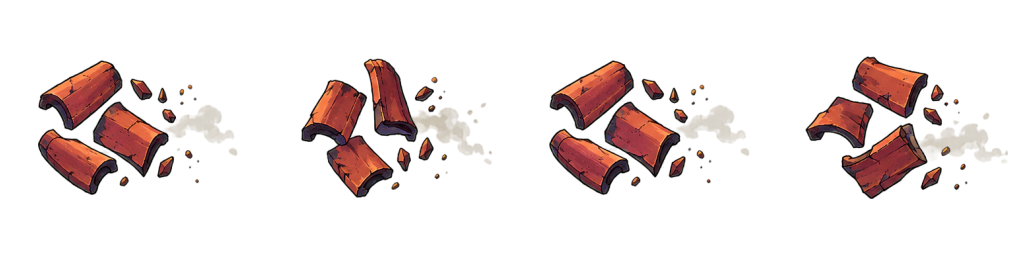
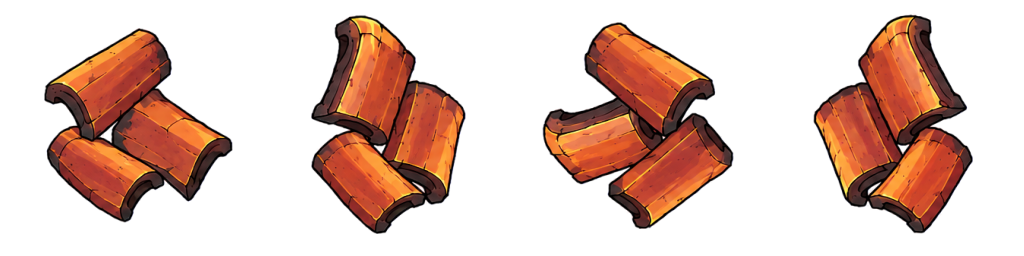
Stage 3: roof tiles v2 (ChatGPT re-roll) for a real anticlockwise tumble
- art-in/stage3fx/fx-tiles-v2.src.png (verbatim): one row of four 3-tile clusters on textured magenta, no dust.
- tools/stage3/process_fx.py: key_local() keys the non-flat backdrop against a smooth local key field, alpha only in a
  3 px band around the paint, every visible pixel despilled to min(R,B) <= G (zero pink). Tiles centred on their alpha
  centroid, scale 0.76, painted order 1,2,3,4. Collage A row 1 (v1 tiles) no longer read; the other three sheets are
  byte-identical. Reruns stay byte-identical.
- prop-rooftiles.webp rebuilt at 1024x256, 4 frames. ART_STATUS: new sha256 + source, approved by Jason F via Grok Bot
  2026-10-08, v1 recorded under supersedes. Prompt JSON: tries 2, prompts[2]. FX-ART.md: order analysis.
- tests/stage3-tiles-v2.test.mjs: source hashes for all four sheets, v2 source/size/lossless, prompt record, order.

diff --git a/tools/stage3/process_fx.py b/tools/stage3/process_fx.py
@@ -1,11 +1,13 @@
 #!/usr/bin/env python3
-"""Build the painted Stage 3 prop/FX sheets from the two ChatGPT collages (approved by Jason F via Grok Bot, 2026-10-08).
+"""Build the painted Stage 3 prop/FX sheets from three ChatGPT images (approved by Jason F via Grok Bot, 2026-10-08).
 
 Sources, kept verbatim:
-  art-in/stage3fx/fx-collage-a.src.png  1536x1024, flat magenta (~#FC03FB): row 1 = 4 roof-tile clusters,
-                                        row 2 = 4 frames of the far Fade running right with the blue-ribbon bundle
+  art-in/stage3fx/fx-collage-a.src.png  1536x1024, flat magenta (~#FC03FB): row 1 = 4 roof-tile clusters (v1, superseded
+                                        by fx-tiles-v2 and no longer read), row 2 = 4 frames of the far Fade running right
   art-in/stage3fx/fx-collage-b.src.png  1536x1024, flat green (~#04F902): row 1 = 4 shadow pools,
                                         rows 2-3 = the 6 shadow-burst frames (3 + 3, reading order)
+  art-in/stage3fx/fx-tiles-v2.src.png   1536x1024, textured/graded magenta: one row of 4 three-tile clusters turning
+                                        a rough quarter turn anticlockwise per slot (the tile re-roll; no dust)
 
 Outputs (same files, keys, sizes and 256x256 frame grid as the placeholder cards they replace):
   assets/stage3/props/prop-rooftiles.webp   1024x256  4 frames
@@ -19,17 +21,19 @@ Steps (deterministic: running it twice writes byte-identical files):
      region connected to the flat key (s > 200); a 3 px band around it catches anti-aliased outlines. Inside that
      soft area alpha = (sK - s) / sK and the colour is unmixed from the median key colour, then fully despilled
      (min(R,B) pulled down to G), so the pale-pink dust trails become see-through warm grey with no pink left.
-     Enclosed purple-ish paint (tile undersides) stays opaque, its excess capped at CAP.
+     Enclosed purple-ish paint (cloak shading) stays opaque, its excess capped at CAP.
      B (green): the same with g = G - max(R,B), and G <= max(R,B) everywhere (the smoke palette has no green).
+     tiles v2: key_local(): the backdrop is not flat, so the key colour is a smooth local field; alpha is solved only in
+     a 3 px band around the paint (no see-through art), and every visible pixel is despilled to min(R,B) <= G.
   2. frames: rows are the horizontal bands of painted pixels; within a row every blob goes to the slot (row width /
      frames) holding its centroid, so loose wisps and shards stay with their frame. Specks under 4 px are dropped.
   3. one scale per effect (premultiplied INTER_AREA), never per frame.
   4. registration in the 256x256 cell (the game draws every sheet with origin 0.5, 0.5):
-       tiles: the opaque tile mass centred at (TILE_X, 128); dust trails right (the art travels left, flipX turns it)
+       tiles: alpha centroid on the cell centre (128, 128), the pivot a spin turns about; order TILE_ORDER
        pool:  ellipse centred at (128, 128), the foot spot (wisps rise above it)
        burst: alpha centroid at (128, 128), 100 px above the actor's feet in game
        fade:  torso x locked at FADE_X; feet on FADE_FOOT for the grounded frames, the painted leap height kept
-  5. checks: nothing in the outer 1 px of a cell; no pink (A) / green (B) pixel left; then lossless WebP (lossy 4:2:0
+  5. checks: nothing in the outer 1 px of a cell; no pink (A, tiles: none at all) / green (B) pixel left; then lossless WebP (lossy 4:2:0
      chroma would smear pink/green back into the edges).
 
 Usage: python3 tools/stage3/process_fx.py [--debug DIR]   (needs numpy, opencv-python, Pillow, scipy)
@@ -43,16 +47,20 @@ from scipy import ndimage as ndi
 ROOT = os.path.abspath(os.path.join(os.path.dirname(__file__), '..', '..'))
 SRC_A = os.path.join(ROOT, 'art-in', 'stage3fx', 'fx-collage-a.src.png')
 SRC_B = os.path.join(ROOT, 'art-in', 'stage3fx', 'fx-collage-b.src.png')
+SRC_T = os.path.join(ROOT, 'art-in', 'stage3fx', 'fx-tiles-v2.src.png')
 OUT = os.path.join(ROOT, 'assets', 'stage3', 'props')
 CONTACT = os.path.join(ROOT, 'docs', 'stage3', 'shots', 'contact-stage3-fx.jpg')
 F = 256
 CAP = 12.0                  # opaque paint keeps at most this much magenta excess (tile undersides read cool grey-violet)
-TILE_K, POOL_K, BURST_K, FADE_K = 0.66, 0.72, 0.54, 0.45
-TILE_X = 118                # opaque tile mass centre; the dust trail uses the room on the right
+TILE_K, POOL_K, BURST_K, FADE_K = 0.76, 0.72, 0.54, 0.45
 FADE_X, FADE_FOOT = 150, 196
-# frame order out of the collage slots. Tile slot 4 repeats slot 1 almost exactly, so it goes between 2 and 3:
-# 1,2,4,3 alternates the near-twin with the other two poses instead of holding one pose for two frames (a hitch).
-TILE_ORDER = [0, 1, 3, 2]
+# tile frame order out of the v2 row's slots (left to right = 1..4), chosen for the smoothest anticlockwise tumble
+# at the game's 8 fps (the art travels left; flipX turns it clockwise for tiles flying right). The painted order
+# 1,2,3,4 is the only cycle that turns anticlockwise all the way round (best-match turns about +122/+84/+116/+38 deg)
+# and also nets anticlockwise on the nearest-match reading the eye uses at speed; every other order nets clockwise
+# or has a ~180 deg step with no direction. See docs/stage3/FX-ART.md.
+TILE_ORDER = [0, 1, 2, 3]
+MIN_BLOB = 50               # tiles v2: anything smaller is backdrop texture, not paint
 
 
 def load(p):
@@ -95,6 +103,50 @@ def key(a, green):
         alpha[small] = 0
     rgb[alpha == 0] = 0
     return rgb, alpha
+
+
+def key_local(a):
+    """Magenta key over a textured, slightly graded backdrop (tiles v2). The key colour is a smooth field: the
+    local average of clean backdrop pixels (normalised Gaussian, sigma 12 px, widened where the paint
+    leaves no backdrop nearby). The art has no see-through parts, so alpha is only solved in a 3 px band around the
+    paint; the rest of the backdrop is fully clear whatever its texture. Colour is unmixed from the local key, then
+    despilled with no cap: no visible pixel keeps min(R,B) above G."""
+    R, G, B = a[..., 0], a[..., 1], a[..., 2]
+    s = np.minimum(R, B) - G
+    cand = (s > 30) & (a.mean(-1) > 140)
+    lbl, n = ndi.label(cand, structure=np.ones((3, 3)))
+    hit = np.unique(lbl[(s > 180) & cand])
+    bg = np.isin(lbl, hit[hit > 0])
+    core = ndi.binary_erosion(bg, np.ones((3, 3)), iterations=2) & (s > 150)
+
+    def field(sig):
+        w = cv2.GaussianBlur(core.astype(np.float32), (0, 0), sig)
+        k = np.dstack([cv2.GaussianBlur(np.where(core, a[..., c], 0).astype(np.float32), (0, 0), sig) for c in range(3)])
+        return k / np.maximum(w, 1e-4)[..., None], w
+    K, w = field(12)
+    for sig in (40, 120):
+        miss = w < 0.02
+        if not miss.any(): break
+        K2, w2 = field(sig)
+        K[miss], w = K2[miss], np.where(miss, w2, w)
+    sK = np.minimum(K[..., 0], K[..., 2]) - K[..., 1]
+    near = ndi.distance_transform_edt(bg) <= 3
+    soft = (bg & near) | (ndi.binary_dilation(bg, np.ones((3, 3)), iterations=3) & ~bg & (s > 8))
+    alpha = np.ones(s.shape, np.float32)
+    alpha[bg] = 0
+    alpha[soft] = np.clip((sK[soft] - s[soft]) / sK[soft], 0, 1)
+    alpha = np.where(alpha < 0.06, 0, np.where(alpha > 0.97, 1, alpha)).astype(np.float32)
+    am = np.maximum(alpha, 1e-3)[..., None]
+    Fc = np.clip((a - (1 - alpha)[..., None] * K) / am, 0, 255)
+    Fc = np.where(soft[..., None], Fc, a)
+    ex = np.maximum(np.minimum(Fc[..., 0], Fc[..., 2]) - Fc[..., 1], 0)
+    Fc[..., 0] -= ex; Fc[..., 2] -= ex
+    lb, m = ndi.label(alpha > 0, structure=np.ones((3, 3)))
+    if m:
+        sz = ndi.sum(np.ones_like(lb), lb, range(1, m + 1))
+        alpha[np.isin(lb, 1 + np.nonzero(sz < MIN_BLOB)[0])] = 0
+    Fc[alpha == 0] = 0
+    return Fc, alpha
 
 
 def bands(alpha, min_h=40):
@@ -150,11 +202,12 @@ def bbox(m):
 
 
 def tiles(frames):
+    # a spin turns about the centre of mass, so every frame puts its alpha centroid on the cell centre
     out = []
     for pm in frames:
         s = scale(pm, TILE_K)
-        x0, y0, x1, y1 = bbox(s[..., 3] > 0.9)
-        out.append(place(s, TILE_X - (x0 + x1) / 2, 128 - (y0 + y1) / 2))
+        cy, cx = ndi.center_of_mass(s[..., 3])
+        out.append(place(s, 128 - cx, 128 - cy))
     return [out[i] for i in TILE_ORDER]
 
 
@@ -199,7 +252,7 @@ def fades(frames):
 FADE_BOTTOMS = []          # filled by main(): where each far-Fade frame's lowest pixel sat in the collage
 
 
-def to_u8(cell, green):
+def to_u8(cell, green, cap=CAP):
     a = np.clip(cell[..., 3], 0, 1)
     rgb = np.where(a[..., None] > 0, cell[..., :3] / np.maximum(a, 1e-6)[..., None], 0)
     # resampling can mix a red and a blue-ish neighbour into a purple one: despill once more after scaling
@@ -207,7 +260,7 @@ def to_u8(cell, green):
     if green:
         G = np.minimum(G, np.maximum(R, B))
     else:
-        ex = np.maximum(np.minimum(R, B) - G - np.where(a >= 0.97, CAP, 0.0), 0)
+        ex = np.maximum(np.minimum(R, B) - G - np.where(a >= 0.97, cap, 0.0), 0)
         R, B = R - ex, B - ex
     rgb = np.stack([R, G, B], -1)
     a8 = np.round(a * 255).astype(np.uint8)
@@ -215,11 +268,11 @@ def to_u8(cell, green):
     return np.dstack([rgb8, a8])
 
 
-def strip(cells, green):
-    return np.concatenate([to_u8(c, green) for c in cells], 1)
+def strip(cells, green, cap=CAP):
+    return np.concatenate([to_u8(c, green, cap) for c in cells], 1)
 
 
-def check(name, s, green):
+def check(name, s, green, cap=CAP):
     a = s[..., 3].astype(int)
     for i in range(s.shape[1] // F):
         c = a[:, i * F:(i + 1) * F]
@@ -227,7 +280,7 @@ def check(name, s, green):
     R, G, B = (s[..., j].astype(int) for j in range(3))
     vis = a > 8
     # pink/magenta = R and B both above G. Opaque paint may keep CAP (cool shading); see-through paint keeps none.
-    bad = vis & ((G - np.maximum(R, B) > 2) if green else (np.minimum(R, B) - G > np.where(a >= 247, CAP + 2, 2)))
+    bad = vis & ((G - np.maximum(R, B) > 2) if green else (np.minimum(R, B) - G > np.where(a >= 247, cap + 2, 2)))
     assert not bad.any(), f'{name}: {int(bad.sum())} {"green" if green else "pink"} pixels left'
     return int(vis.sum())
 
@@ -272,7 +325,11 @@ def main():
     rgbB, alB = key(load(SRC_B), True)
     bA, bB = bands(alA), bands(alB)
     assert len(bA) == 2 and len(bB) == 3, (bA, bB)
-    t = slots(rgbA, alA, bA[0], 4)
+    # collage A's top row (the v1 tiles) is superseded by fx-tiles-v2 and no longer read
+    rgbT, alT = key_local(load(SRC_T))
+    bT = bands(alT)
+    assert len(bT) == 1, bT
+    t = slots(rgbT, alT, bT[0], 4)
     f = slots(rgbA, alA, bA[1], 4)
     p = slots(rgbB, alB, bB[0], 4)
     b = slots(rgbB, alB, bB[1], 3) + slots(rgbB, alB, bB[2], 3)
@@ -280,21 +337,21 @@ def main():
     y0, A, W = bA[1][0], alA[bA[1][0]:bA[1][1]], alA.shape[1]
     FADE_BOTTOMS[:] = [y0 + np.nonzero(A[:, int(k * W / 4):int((k + 1) * W / 4)].any(1))[0].max() + 1 for k in range(4)]
     sheets = [
-        ('prop-rooftiles', strip(tiles(t), False), False),
-        ('fx-shadowpool', strip(pools(p), True), True),
-        ('fx-shadowburst', strip(bursts(b), True), True),
-        ('fx-fade-far', strip(fades(f), False), False),
+        ('prop-rooftiles', strip(tiles(t), False, 0.0), False, 0.0),
+        ('fx-shadowpool', strip(pools(p), True), True, CAP),
+        ('fx-shadowburst', strip(bursts(b), True), True, CAP),
+        ('fx-fade-far', strip(fades(f), False), False, CAP),
     ]
     os.makedirs(OUT, exist_ok=True)
-    for name, arr, green in sheets:
-        n = check(name, arr, green)
+    for name, arr, green, cap in sheets:
+        n = check(name, arr, green, cap)
         path = os.path.join(OUT, name + '.webp')
         save_webp(arr, path)
         print(f'{name}: {arr.shape[1]}x{arr.shape[0]}, {n} visible px, {os.path.getsize(path)} B, sha256 {hashlib.sha256(open(path, "rb").read()).hexdigest()}')
         if dbg:
             os.makedirs(dbg, exist_ok=True)
             Image.fromarray(arr, 'RGBA').save(os.path.join(dbg, name + '.png'))
-    contact([(n, a) for n, a, _ in sheets]).save(CONTACT, 'JPEG', quality=88)
+    contact([(n, a) for n, a, _, _ in sheets]).save(CONTACT, 'JPEG', quality=88)
     print('contact', os.path.relpath(CONTACT, ROOT))
 
 

diff --git a/docs/stage3/FX-ART.md b/docs/stage3/FX-ART.md
@@ -15,27 +15,44 @@ All four are drawn with origin (0.5, 0.5) and normal blend, as one row of 256×2
 
 ## Source and processing
 
-- **Source:** ChatGPT image generation, two collages, first try, approved by Jason F via Grok Bot on 2026-10-08.
-  Both are kept verbatim; the hashes are in `assets/stage3/ART_STATUS.json`, and the literal prompts are
-  `prompts[1]` in `docs/stage3/prompts/*.json`.
-  - `art-in/stage3fx/fx-collage-a.src.png`: magenta key. Row 1 has the 4 tile clusters, row 2 the 4 far-Fade run frames.
+- **Source:** ChatGPT image generation, approved by Jason F via Grok Bot on 2026-10-08: two collages (first try)
+  and a re-roll of the tile row. All three are kept verbatim; the hashes are in `assets/stage3/ART_STATUS.json`,
+  and the prompts are `prompts[1]` (collages) and `prompts[2]` (tile re-roll) in `docs/stage3/prompts/*.json`.
+  - `art-in/stage3fx/fx-collage-a.src.png`: magenta key. Row 2 has the 4 far-Fade run frames. Row 1 (the v1 tiles,
+    shipped in PR #40) is superseded by the re-roll and no longer read.
+  - `art-in/stage3fx/fx-tiles-v2.src.png`: one row of 4 bright red-orange three-tile clusters, no dust, on a
+    magenta backdrop with a faint texture and gradient (not flat).
   - `art-in/stage3fx/fx-collage-b.src.png`: green key. Row 1 has the 4 pools; rows 2–3 have the 6 burst frames.
     Green because the shadow FX are violet, and violet can't be keyed off magenta.
 - **Tool:** `tools/stage3/process_fx.py`. Running it twice writes byte-identical files.
   - **Key:** the background is the key-hue region connected to the flat key, plus a 3 px edge band. Alpha comes from
     the key excess and the colour is unmixed from the key. See-through paint is fully despilled; in collage A it
-    becomes a neutral tan. So the pale-pink tile dust is grey dust, and no pink pixel is left (the tool checks this).
+    becomes a neutral tan, so no pink pixel is left (the tool checks this).
+    The tile re-roll's backdrop is not flat, so `key_local()` keys it against a smooth local key colour (a
+    normalised Gaussian of clean backdrop pixels) and solves alpha only in a 3 px band around the paint; the rest of
+    the backdrop is fully clear whatever its texture. Every visible tile pixel is despilled to min(R,B) ≤ G (no cap).
   - **Frames:** split by slot. Every blob goes to the slot that holds its centroid, so loose shards and wisps stay
     with their frame.
   - **Scale and registration:** one scale per effect.
-    - Tiles: scale 0.66, the tile mass centred at (118, 128).
+    - Tiles: scale 0.76, the alpha centroid on the cell centre (the pivot a spin turns about). In game the cluster
+      is about 80–95 px wide and 95–110 px tall (v1's tile mass was about 80×70), still inside the 120 px the hit
+      test covers (`hitDx` 60).
     - Pool: scale 0.72, the ellipse centred on the cell (the foot spot).
     - Burst: scale 0.54, the alpha centroid centred on the cell.
     - Fade: scale 0.45, body about 130 px, torso x locked at 150, feet on 196, the painted leap height kept.
   - **Encoding:** lossless WebP. Lossy 4:2:0 chroma smeared pink and green back into the edges.
-- **Tile order 1, 2, 4, 3:** collage slot 4 nearly repeats slot 1. Played in collage order, the same pose would
-  hold for two of the four frames (a hitch at 8 fps). Between 2 and 3 it alternates with the other two poses
-  instead. It is still not a smooth quarter-turn rotation; a re-roll would fix that.
+- **Tile order 1, 2, 3, 4 (the painted order):** the art travels left and turns anticlockwise; `flipX` makes it
+  turn clockwise for tiles flying right, which is the right way to roll. To choose the order, each pair of frames
+  was rotation-matched (silhouette overlap plus shading correlation, about the alpha centroid):
+  - Best quarter-turn matches for 1→2→3→4→1 are about +122°, +84°, +116° and +38° anticlockwise, one full turn per
+    loop. No other order turns anticlockwise all the way round.
+  - The cluster is nearly three-fold symmetric, so a 90° step also looks like a 30° step the other way. On the
+    nearest-match reading (what the eye picks at 8 fps), 1, 2, 3, 4 steps +12°, +6°, −14°, +36°: a net anticlockwise
+    turn with one small backward tick at 3→4. Every other order nets clockwise or has a step near 180° with no
+    direction.
+  - v1 (PR #40, order 1, 2, 4, 3) read +32°, −32°, −34°, +34°: back and forth with no net turn, the rattle Jason saw.
+  So v2 reads as a turning cluster rather than a rattle, but it is not a clean rigid roll. A cleaner tumble would
+  need frames that are true rigid rotations, or a cluster that is not three-fold symmetric.
 - **Contact sheet:** `docs/stage3/shots/contact-stage3-fx.jpg`.
 
 ## Related changes
